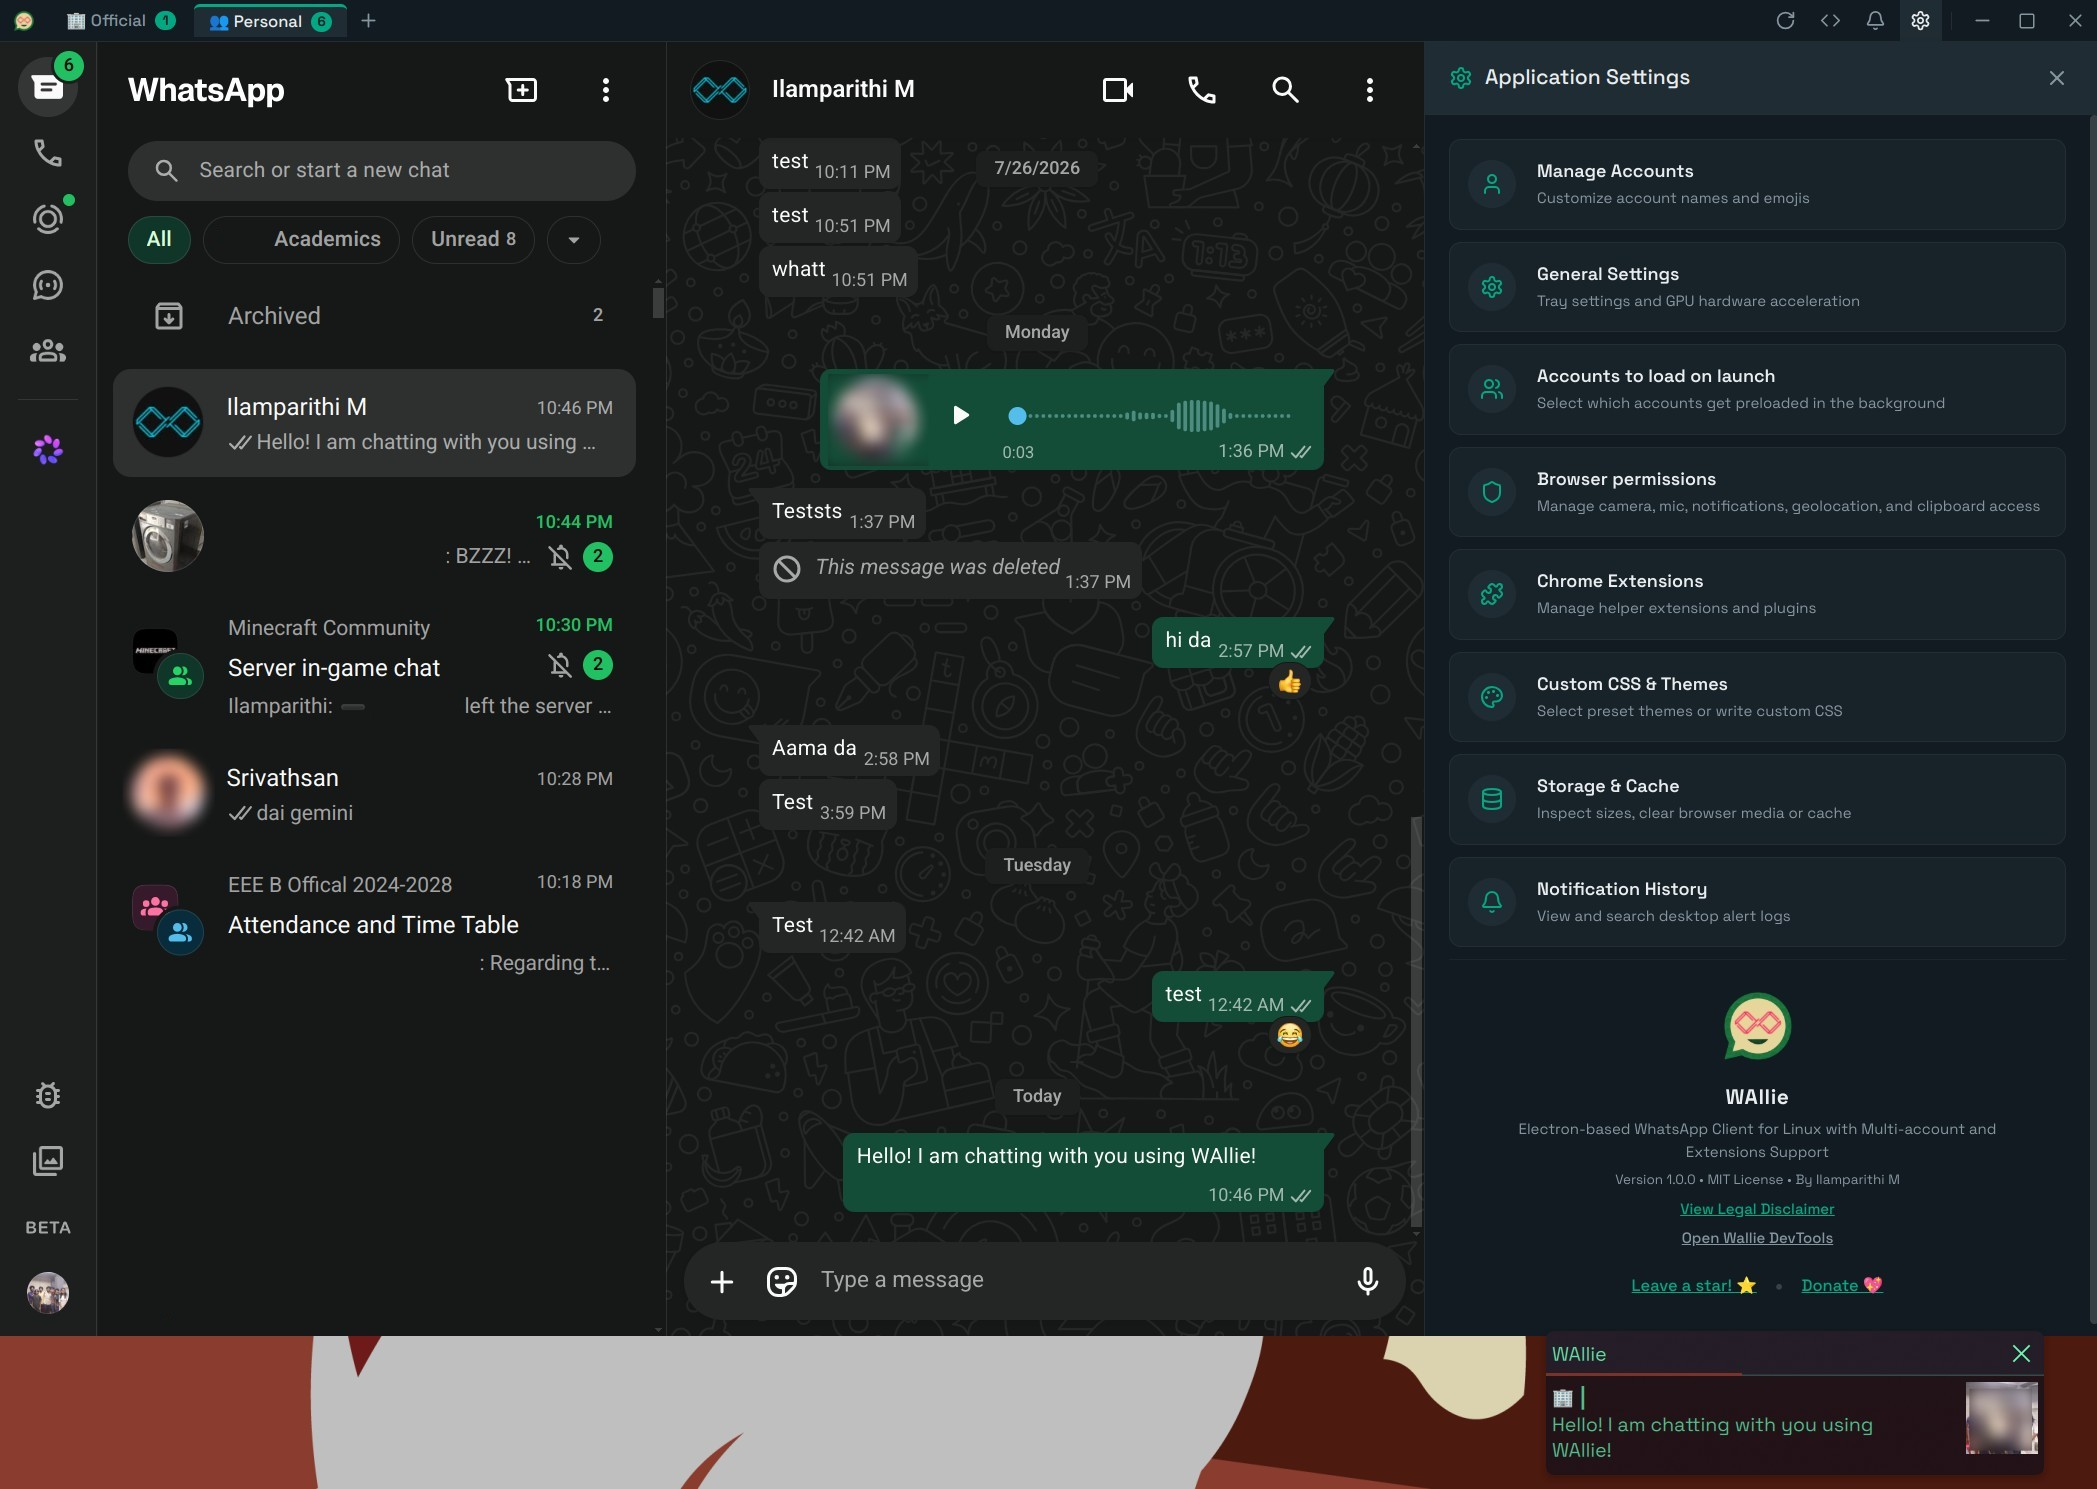
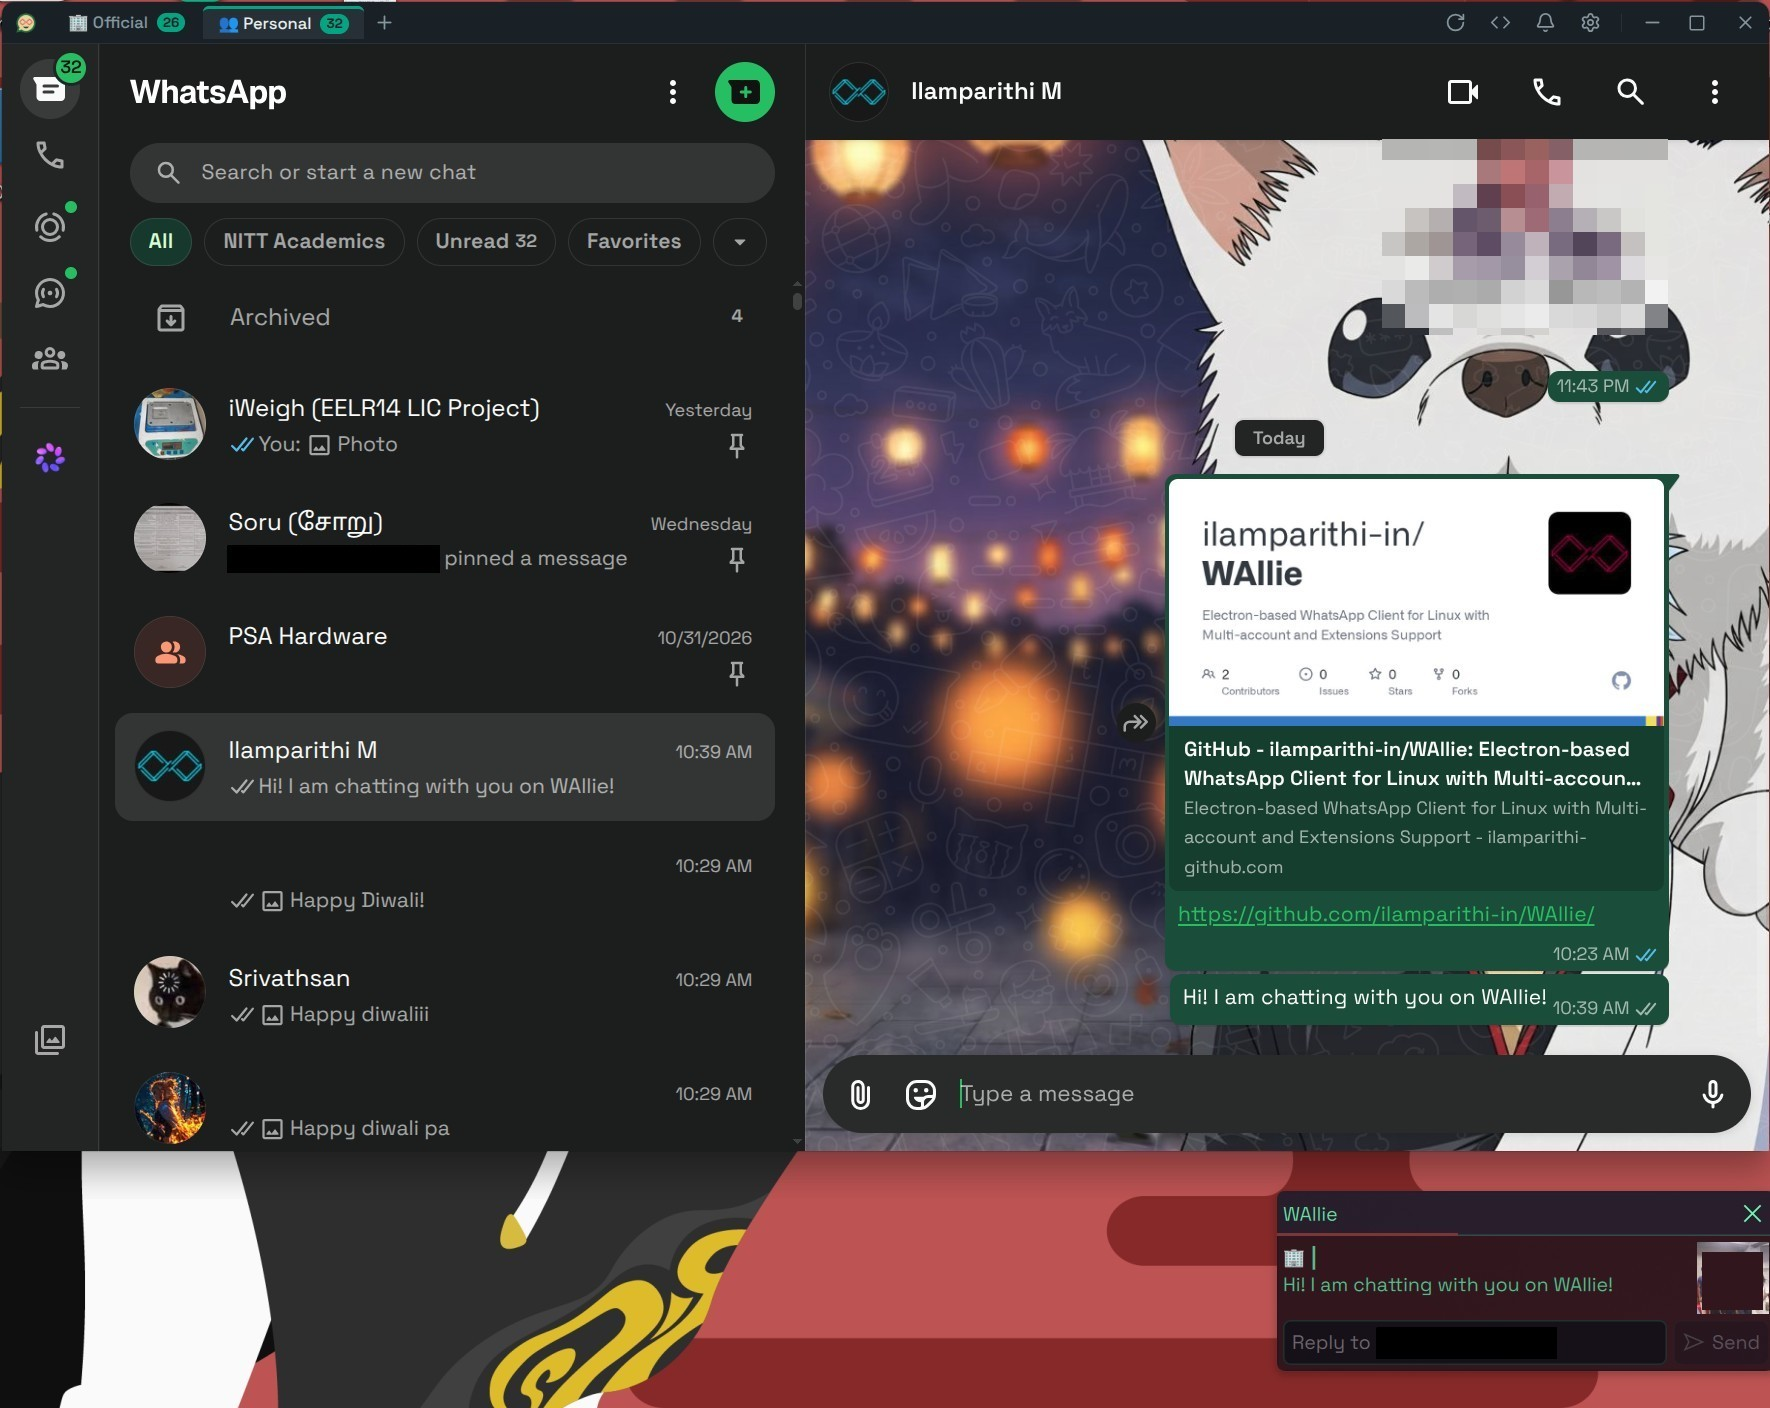
chore: modernize dependencies, toolchains, packaging, and docs
- Bump electron to v45.2.3 and update Arch PKGBUILDs to electron45
- Bump electron-builder to v26.18.1 and pin static AppImage toolset to 1.0.3
- Bump Flatpak runtimeVersion and baseVersion to 26.08 across build/release workflows
- Upgrade softprops/action-gh-release from v2 to v3 in release workflow
- Include AppImage .zsync update metadata in build and release artifacts
- Modernize tsconfig.preload.json target from es2020 to ESNext
- Update @types/adm-zip to v0.6.0
- Remove dead src/main/dbusNotifications.ts compatibility stub
- Update README.md with new features, Snap Store / AppImage guides, and refreshed screenshot

diff --git a/README.md b/README.md
@@ -10,6 +10,7 @@ othneildrew/Best-README-Template
 [![Issues][issues-shield]][issues-url]
 [![project_license][license-shield]][license-url]
 [![CI Build][ci-shield]][ci-url]
+[![Snap Store][snap-shield]][snap-url]
 
 <!-- PROJECT LOGO -->
 <br />
@@ -18,7 +19,7 @@ othneildrew/Best-README-Template
     <img src="public/icon.png" alt="Logo" width="80" height="80">
   </a>
 
-<h3 align="center">WAllie</h3>
+<h1 align="center">WAllie</h1>
 
   <p align="center">
     Electron-based WhatsApp Client for Linux with Multi-account and Extensions Support
@@ -85,20 +86,59 @@ I was tired of finding Linux clients for WhatsApp which did not do everything I 
 <!-- FEATURES -->
 ## Features
 
-- 👤 **Multi-Account Session Isolation**: Run multiple WhatsApp accounts concurrently. Each tab runs inside an isolated, persisted session partition (`session.fromPartition('persist:account_<id>')`), preventing cookies, storage, and cache overlap.
-- 🧩 **Chrome Extensions Support**: Install Chrome Extensions (e.g. Privacy Extension, WA Web Plus) directly from the Chrome Web Store, or load unpacked extensions from local folders.
-- 🔔 **Smart Notifications with Linux Integration**: Receive native desktop notifications tagged with account-specific emojis (in case of multiple accounts). Logs notification history locally with full search capabilities.
-- 🔗 **Handle WhatsApp URIs**: Open WhatsApp chat directly by passing the phone number or `wa://` links to the app. Choose which account to use to open the chat.
-- 📌 **PIP for Video Calls**: Pin the call pop-out window to the top, so it stays on top of all other windows while you work or chat.
+- 👤 **Multi-Account Session Isolation**: Run multiple WhatsApp accounts concurrently. Each account operates inside an isolated, persisted session partition (`persist:account_<id>`), preventing cookie, storage, and cache collisions.
+- 🧩 **Chrome Extensions Support**: Install extensions directly from the Chrome Web Store (e.g. WA Web Plus, Privacy Extension) or load unpacked local extensions per account.
+- 📱 **Responsive UI & Collapsible Sidebar**: Optimized for tiling window managers, vertical/portrait monitors, and narrow splits. Includes a collapsible chat sidebar in landscape and a full-width single-pane navigation flow in portrait mode, with an unblocked minimum window size toggle.
+- 🔗 **Standalone Link Preview Generator**: Reverse-engineered client-side link preview engine that generates rich metadata cards with full-sized preview images directly from your desktop — eliminating WhatsApp Web's requirement for your primary phone to be online.
+- 💾 **Built-in Chat Exporter**: Export complete individual or group chats with automated backward history scrolling, live progress tracking, media streaming (photos, voice notes, videos, albums), and export cancellation support.
+- 🔔 **Smart Notifications & History**: Native desktop notifications tagged with account emojis. Stores searchable notification history locally with time-based pruning and export capabilities.
+- 🚀 **Deep Linking & URI Protocol**: Direct support for `whatsapp://` and phone number URLs, with an interactive prompt to select which account handles the incoming chat.
+- 📌 **Picture-in-Picture (PIP) for Video Calls**: Pop out video calls into a dedicated, floating always-on-top window while you multitask.
+- 🐧 **Linux-First Polish**: Tray minimization, Wayland and X11 native window decorations, hardware acceleration toggle, and smooth touchpad pinch-to-zoom gestures.
 
 <p align="right">(<a href="#readme-top">back to top</a>)</p>
 
 <!-- GETTING STARTED -->
 ## Installing WAllie
 
-WAllie can be compiled and installed on most popular Linux distributions. Since it is an Electron app, you can even build it for macOS and Windows. Grab the latest release from the [releases](https://github.com/ilamparithi-in/WAllie/releases) page, or build it from source:
+### 1. Snap Store (Ubuntu & all Snap-enabled distros)
+Install WAllie directly from the Snap Store:
+```bash
+sudo snap install wallie
+```
+Or find it in the Ubuntu App Center / Snap Store at [snapcraft.io/wallie](https://snapcraft.io/wallie).
 
-### Prerequisites
+---
+
+### 2. Universal AppImage (AppImageHub)
+Download the standalone AppImage for instant portable execution on any Linux distribution (x86_64 and arm64). Cataloged on [AppImageHub](https://appimage.github.io/WAllie).
+
+1. Download the latest `.AppImage` from [GitHub Releases](https://github.com/ilamparithi-in/WAllie/releases/latest).
+2. Make it executable and run:
+```bash
+chmod +x WAllie-*.AppImage
+./WAllie-*.AppImage
+```
+
+> [!TIP]
+> Compatible with AppImage desktop integration tools like **Gear Lever** and **AppImageLauncher** for automatic desktop entries and differential updates.
+
+---
+
+### 3. Prebuilt Packages & Binaries
+Prebuilt binaries for every release are available on the [Releases page](https://github.com/ilamparithi-in/WAllie/releases/latest):
+* **Debian / Ubuntu**: `.deb` (x86_64 & arm64)
+* **Fedora / RHEL**: `.rpm` (x86_64 & arm64)
+* **Universal Flatpak**: `.flatpak` (x86_64 & arm64)
+* **Windows**: `.exe` (NSIS installer & portable)
+* **macOS**: `.dmg` (Universal, Apple Silicon, & Intel)
+
+---
+
+### 4. Building from Source
+WAllie can be compiled and installed on most popular Linux distributions. Since it is an Electron app, you can even build it for macOS and Windows:
+
+#### Prerequisites
 
 Ensure you have Node.js (v18+) and npm installed:
 ```bash
@@ -249,3 +289,5 @@ Like my work? Consider buying me a Biriyani! [Donate](https://pseudosmp.github.i
 [Node.js]: https://img.shields.io/badge/Node.js-43853D?style=for-the-badge&logo=node.js&logoColor=white
 [Node-url]: https://nodejs.org/
 [ci-shield]: https://img.shields.io/github/actions/workflow/status/ilamparithi-in/WAllie/build.yml?style=for-the-badge
+[snap-shield]: https://img.shields.io/snapcraft/v/wallie/latest/stable?style=for-the-badge&logo=snapcraft&logoColor=white
+[snap-url]: https://snapcraft.io/wallie
